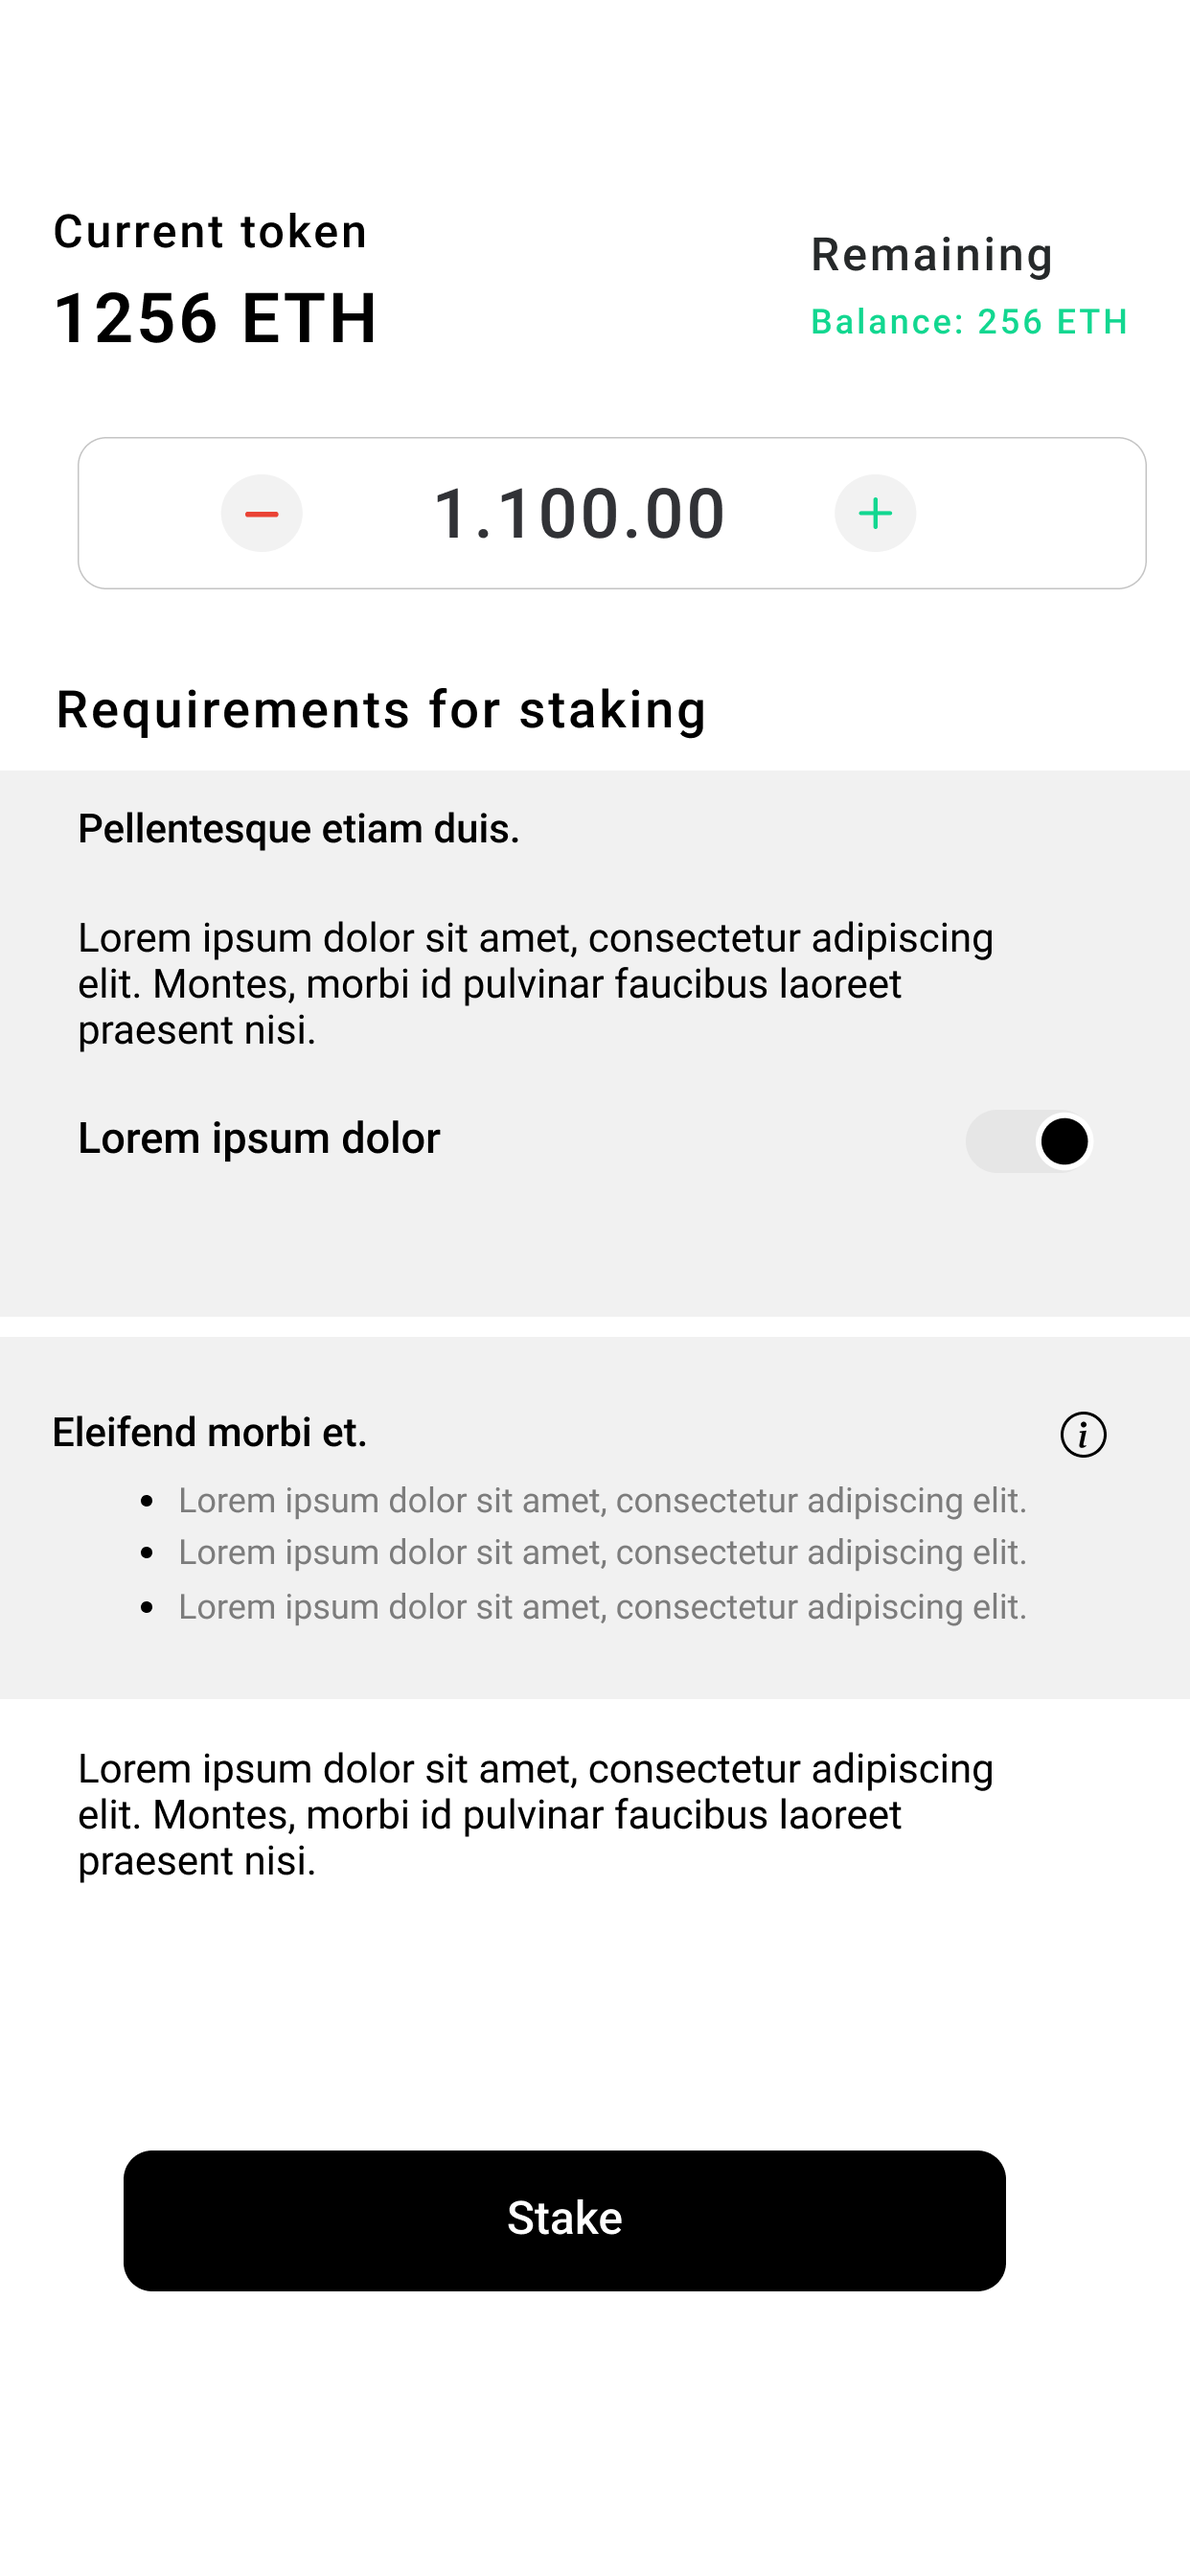
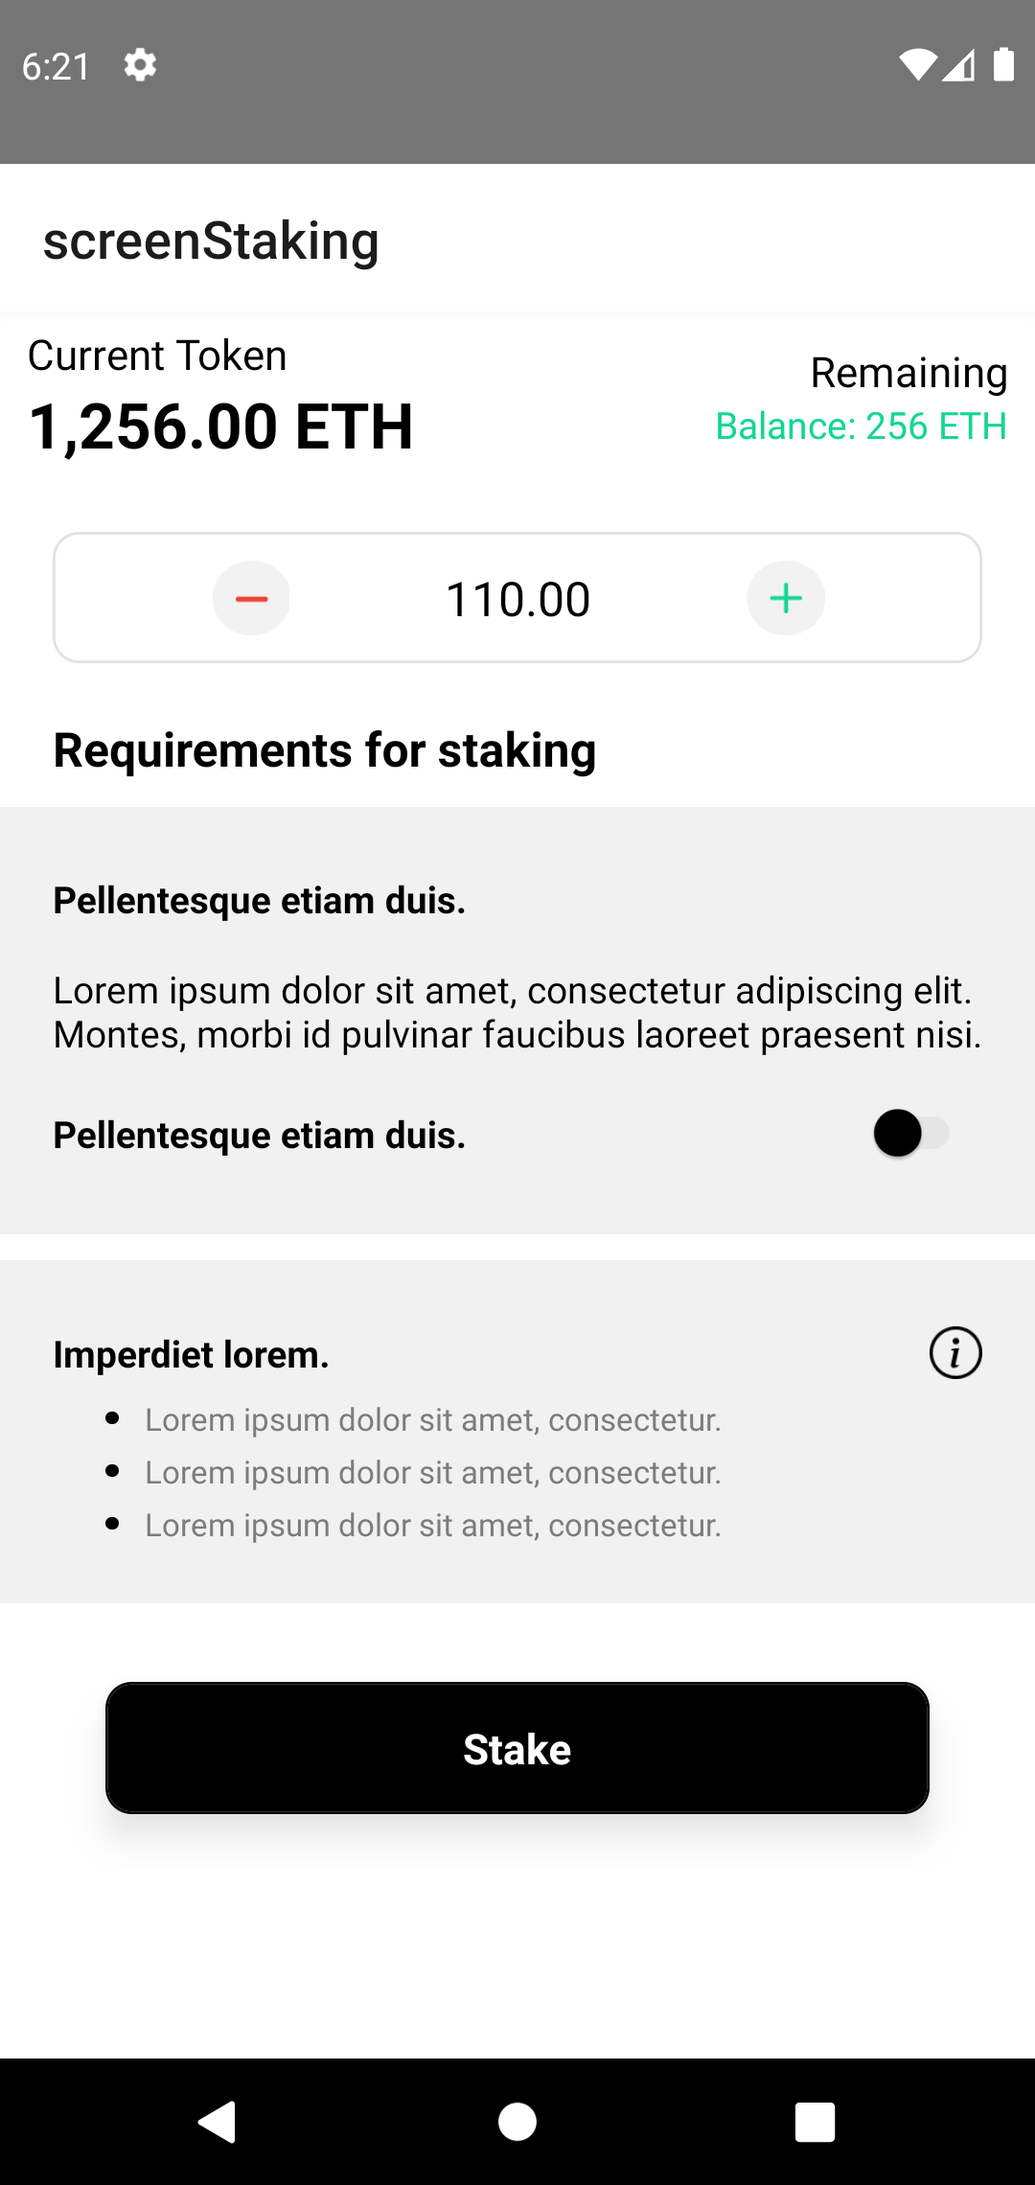
staking screen added

diff --git a/screens/screen-staking/index.js b/screens/screen-staking/index.js
@@ -1,14 +1,81 @@
-import React from "react";
+import React, { useState } from "react";
 import {
   Text,
   View,
-  StyleSheet
+  StyleSheet,
+  Image,
+  Switch,
+  Pressable,
+  ScrollView
 } from "react-native";
 
 const Staking = () => {
+  const [isEnabled, setIsEnabled] = useState(false);
+  const [tokenValue, setTokenValue] = useState(110);
   return (
     <View style={styles.container}>
-      <Text style={styles.heading}>Staking</Text>
+      <ScrollView showsVerticalScrollIndicator={false}>
+        <View style={styles.flexRow}>
+          <View style={styles.tokenContainer}>
+            <Text style={styles.tokenHeading}>Current Token</Text>
+            <Text style={styles.tokenValue}>{format(1256, "ETH", 2)}</Text>
+          </View>
+          <View style={styles.balanceContainer}>
+            <Text style={styles.tokenHeading}>Remaining</Text>
+            <Text style={styles.remainingBalance}>
+              Balance: {format(256, "ETH", 0)}
+            </Text>
+          </View>
+        </View>
+        <InputToken
+          value={tokenValue}
+          onChange={setTokenValue}
+          step={1}
+          style={styles.inputContainer}
+        />
+        <Text style={styles.heading}>Requirements for staking</Text>
+        <View style={styles.itemContainer}>
+          <View style={styles.flexRow}>
+            <Text style={styles.itemHeading}>Pellentesque etiam duis.</Text>
+          </View>
+          <Text style={styles.description}>
+            Lorem ipsum dolor sit amet, consectetur adipiscing elit. Montes,
+            morbi id pulvinar faucibus laoreet praesent nisi.
+          </Text>
+          <View style={styles.flexRow}>
+            <Text style={styles.itemHeading}>Pellentesque etiam duis.</Text>
+            <Switch
+              value={isEnabled}
+              onValueChange={() => setIsEnabled(!isEnabled)}
+              trackColor={{ false: "#e5e5e5", true: "#e5e5e5" }}
+              thumbColor={isEnabled ? "#000" : "#000"}
+              style={styles.switch}
+            />
+          </View>
+        </View>
+        <View style={styles.itemContainer}>
+          <View style={styles.flexRow}>
+            <Text style={styles.itemHeading}>Imperdiet lorem.</Text>
+            <Image
+              source={require("./assets/infoIcon.png")}
+              style={styles.infoIcon}
+            />
+          </View>
+          <BulletText
+            text="Lorem ipsum dolor sit amet, consectetur. "
+            textStyle={styles.bulletText}
+          />
+          <BulletText
+            text="Lorem ipsum dolor sit amet, consectetur. "
+            textStyle={styles.bulletText}
+          />
+          <BulletText
+            text="Lorem ipsum dolor sit amet, consectetur. "
+            textStyle={styles.bulletText}
+          />
+        </View>
+        <Button buttonText="Stake" style={styles.button} />
+      </ScrollView>
     </View>
   );
 };
@@ -18,8 +85,250 @@ const styles = StyleSheet.create({
     backgroundColor: "#fff"
   },
   heading: {
-    fontSize: 20
+    fontSize: 18,
+    fontWeight: "bold",
+    color: "#000",
+    marginLeft: 20,
+    marginBottom: 10
+  },
+  tokenContainer: {
+    flex: 1,
+    paddingHorizontal: 10
+  },
+  balanceContainer: {
+    flex: 1,
+    paddingHorizontal: 10,
+    alignItems: "flex-end"
+  },
+  tokenHeading: {
+    fontSize: 16,
+    color: "#000"
+  },
+  tokenValue: {
+    fontSize: 24,
+    color: "#000",
+    fontWeight: "bold"
+  },
+  itemContainer: {
+    padding: 20,
+    backgroundColor: "#F1F1F1",
+    marginBottom: 10
+  },
+  remainingBalance: {
+    fontSize: 14,
+    color: "#12D790"
+  },
+  flexRow: {
+    flexDirection: "row",
+    justifyContent: "space-between",
+    alignItems: "center",
+    marginVertical: 5
+  },
+  infoIcon: {
+    width: 20,
+    height: 20
+  },
+  itemHeading: {
+    fontSize: 14,
+    fontWeight: "bold"
+  },
+  subText: {
+    fontSize: 12,
+    color: "#7c7c7c"
+  },
+  bulletText: {
+    fontSize: 12,
+    color: "#7C7C7C"
+  },
+  switch: {
+    transform: [{ scaleX: 0.9 }, { scaleY: 0.9 }]
+  },
+  description: {
+    fontSize: 14,
+    marginVertical: 10
+  },
+  button: {
+    marginVertical: 20,
+    marginHorizontal: 40
+  },
+  inputContainer: {
+    paddingHorizontal: 20
   }
 });
 
 export default Staking;
+
+const BulletText = props => {
+  let bulletStyle = null;
+  switch (props.type) {
+    default:
+      bulletStyle = {
+        width: 5,
+        height: 5,
+        borderRadius: 5,
+        backgroundColor: "#000",
+        marginRight: 10
+      };
+      break;
+  }
+  return (
+    <View style={bulletTextStyles.bulletContainer}>
+      <View style={bulletStyle} />
+      <Text style={[bulletTextStyles.bulletText, props.textStyle]}>
+        {props.text}
+      </Text>
+    </View>
+  );
+};
+const bulletTextStyles = StyleSheet.create({
+  bulletContainer: {
+    flexDirection: "row",
+    alignItems: "center",
+    marginLeft: 20,
+    marginVertical: 2
+  },
+  bulletText: {
+    fontSize: 12
+  }
+});
+
+const Button = params => {
+  const backgroundColor = params.backgroundColor || "#000";
+  const textColor = params.textColor || "#fff";
+  const btnStyle = {
+    backgroundColor: backgroundColor,
+    borderColor: params.borderColor || backgroundColor,
+    borderWidth: 1
+  };
+  const btnText = {
+    color: textColor
+  };
+  return (
+    <View style={[buttonStyles.btnContainer, params.style]}>
+      <View style={!params.hideShadow ? buttonStyles.shadowContainer : null}>
+        <Pressable
+          style={[buttonStyles.btn, btnStyle]}
+          onPress={params.onPress}>
+          <Text style={[buttonStyles.btnText, btnText]}>
+            {params.buttonText}
+          </Text>
+          <View style={styles.childrenContainer}>{params.children}</View>
+        </Pressable>
+      </View>
+    </View>
+  );
+};
+
+const buttonStyles = StyleSheet.create({
+  btnContainer: {
+    justifyContent: "center"
+  },
+  shadowContainer: {
+    shadowColor: "rgba(0, 0, 0, 0.5)",
+    shadowOffset: {
+      width: 0,
+      height: 5
+    },
+    shadowOpacity: 0.5,
+    shadowRadius: 10,
+    elevation: 10,
+    backgroundColor: "#fff",
+    borderRadius: 10
+  },
+  btn: {
+    height: 50,
+    padding: 10,
+    paddingHorizontal: 25,
+    borderRadius: 10,
+    justifyContent: "center",
+    alignItems: "center",
+
+    flexDirection: "row"
+  },
+  btnText: {
+    color: "#fff",
+    fontSize: 16,
+    fontWeight: "bold"
+  },
+  childrenContainer: {
+    justifyContent: "center",
+    alignItems: "center"
+  }
+});
+
+const InputToken = props => {
+  const step = props.step;
+  const decrement = value => {
+    return (value -= step);
+  };
+  const increment = value => {
+    return (value += step);
+  };
+  return (
+    <View style={[inputTokenStyles.container, props.style]}>
+      <View style={inputTokenStyles.tokenValueContainer}>
+        <Pressable onPress={() => props.onChange(decrement(props.value))}>
+          <Image
+            source={require("./assets/decrementIcon.png")}
+            style={inputTokenStyles.icon}
+          />
+        </Pressable>
+        <Text style={inputTokenStyles.fnt18}>{props.value.toFixed(2)}</Text>
+        <Pressable onPress={() => props.onChange(increment(props.value))}>
+          <Image
+            source={require("./assets/incrementIcon.png")}
+            style={inputTokenStyles.icon}
+          />
+        </Pressable>
+      </View>
+    </View>
+  );
+};
+const inputTokenStyles = StyleSheet.create({
+  container: {
+    marginVertical: 10
+  },
+  heading: {
+    fontSize: 14,
+    marginLeft: 10
+  },
+  tokenValueContainer: {
+    flexDirection: "row",
+    justifyContent: "space-evenly",
+    height: 50,
+    alignItems: "center",
+    borderRadius: 10,
+    borderColor: "#e1e1e1",
+    borderWidth: 1,
+    marginVertical: 10
+  },
+  fnt18: {
+    fontSize: 18
+  },
+  icon: {
+    width: 30,
+    height: 30,
+    resizeMode: "contain"
+  }
+});
+
+const format = (value, currency, precesion) => {
+  const parts = value && value.toFixed(precesion).toString().split(".");
+  if (parts) {
+    parts[0] = parts[0].replace(/\B(?=(\d{3})+(?!\d))/g, ",");
+    switch (currency) {
+      case "USD":
+        return "$ " + parts.join(".");
+      case "BTC":
+        return parts.join(".") + " BTC";
+      case "EUR":
+        return "€ " + parts.join(".");
+      case "GBP":
+        return "£ " + parts.join(".");
+      case "ETH":
+        return parts.join(".") + " ETH";
+      default:
+        return parts.join(".");
+    }
+  }
+};

diff --git a/modules/index.js b/modules/index.js
@@ -2,7 +2,7 @@ import mods from "./*/index.js";
 import { getModules } from "./modules.js";
 
 export const modules = getModules(mods);
-export const initialRoute = "screenSignup2";
+export const initialRoute = "screenStaking";
 // export const initialRoute = modules[0].value.title;
 export const slices = modules
   .filter(mod => mod.value.slice)
